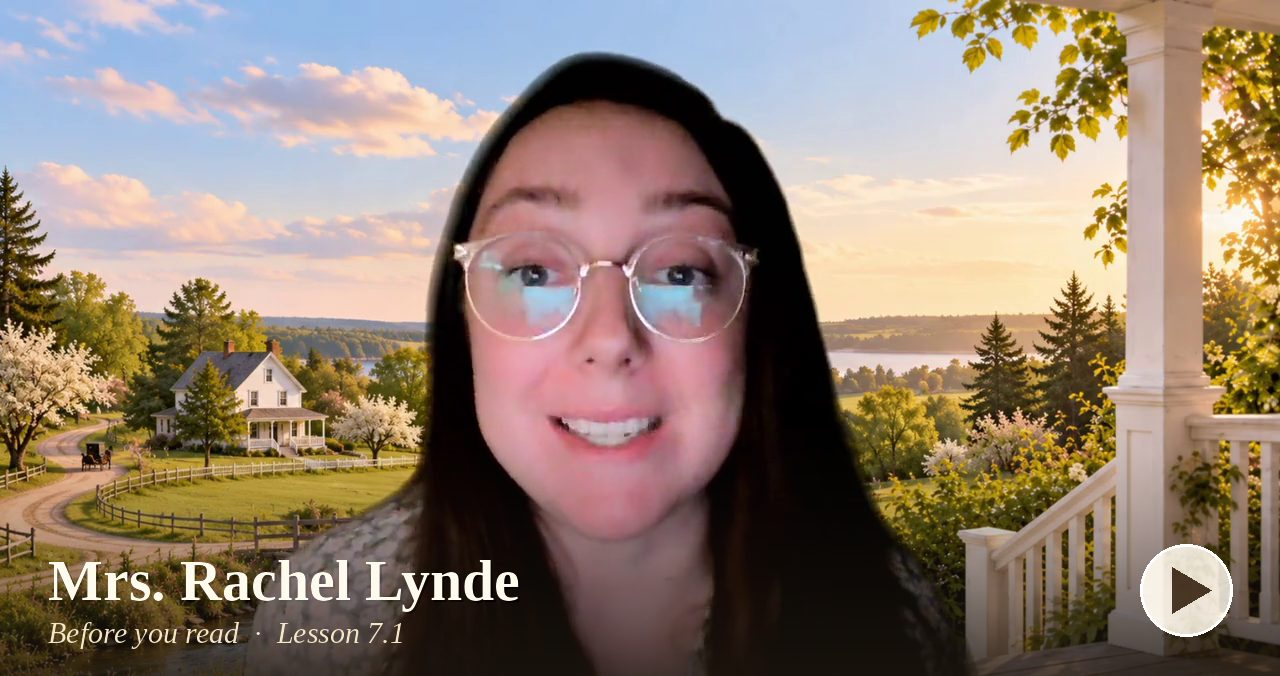
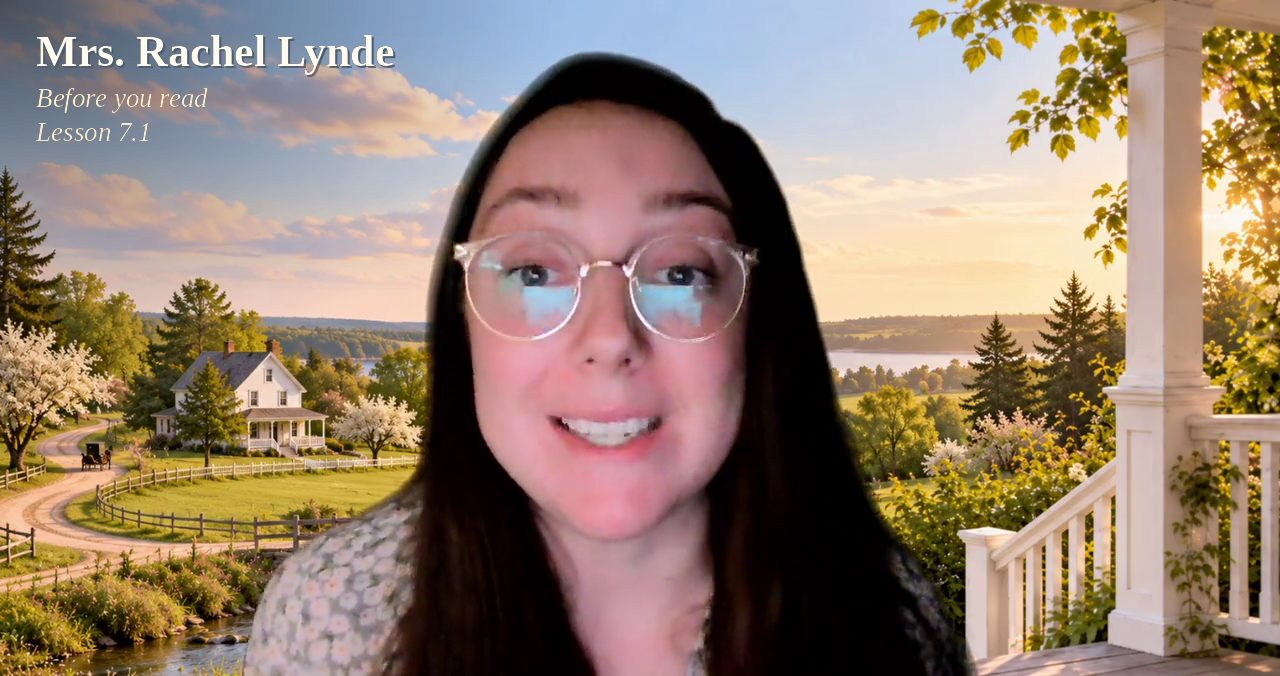
7.1 video thumbnails: title top-left clear of the player bar; grammar uses a calmer frame

diff --git a/tools/make-thumbnail.py b/tools/make-thumbnail.py
@@ -1,0 +1,18 @@
+import sys
+from PIL import Image,ImageDraw,ImageFont
+src,out,sub=sys.argv[1:4]
+im=Image.open(src).convert('RGB');W,H=im.size
+ov=Image.new('RGBA',(W,H),(0,0,0,0));d=ImageDraw.Draw(ov)
+# a soft dark corner, top-left, over the sky — away from the face and
+# from the player's controls, which cover the bottom of the frame
+for r in range(520,0,-4):
+    a=int(170*(1-r/520)**1.2)
+    d.ellipse([-r*1.1,-r*0.75,r*1.1,r*0.75],fill=(28,22,14,a))
+F='/usr/share/fonts/truetype/liberation2/'
+t1=ImageFont.truetype(F+'LiberationSerif-Bold.ttf',44);t2=ImageFont.truetype(F+'LiberationSerif-Italic.ttf',27)
+x,y=36,26
+for dx,dy,col in ((2,2,(0,0,0,130)),(0,0,(255,250,238,255))):
+    d.text((x+dx,y+dy),'Mrs. Rachel Lynde',font=t1,fill=col)
+d.text((x,y+56),sub,font=t2,fill=(250,236,206,255))
+d.text((x,y+90),'Lesson 7.1',font=t2,fill=(250,236,206,235))
+Image.alpha_composite(im.convert('RGBA'),ov).convert('RGB').save(out,quality=82,optimize=True,progressive=True)
